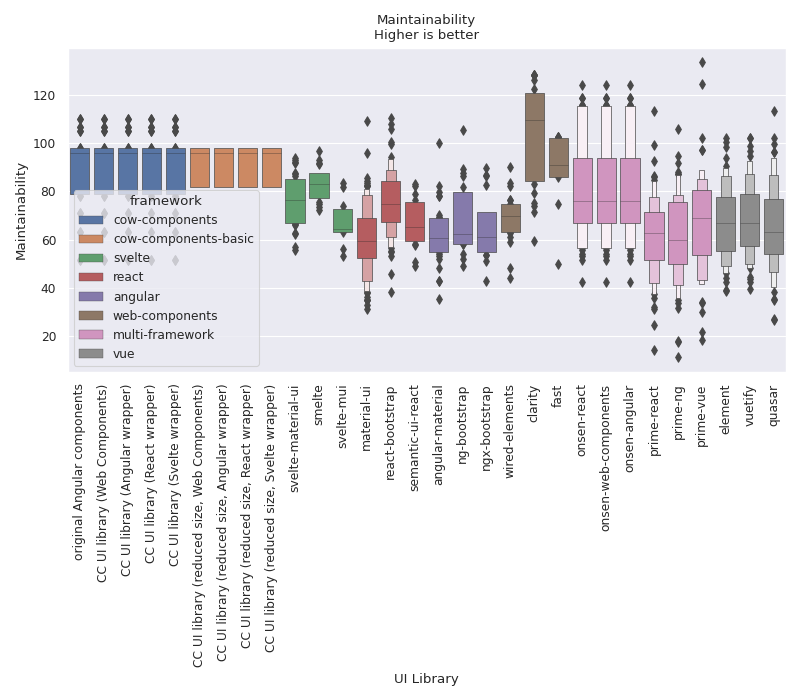
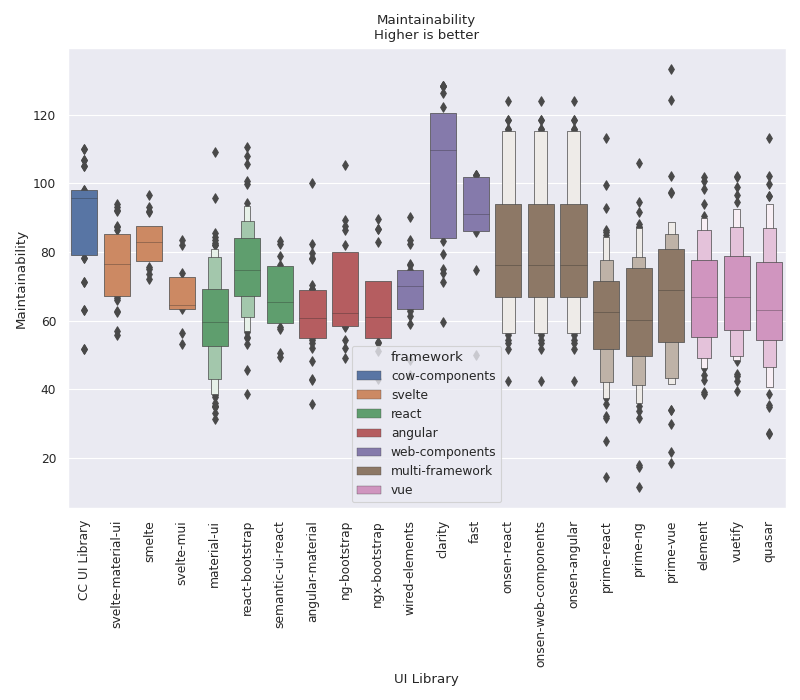
rename some bundles

diff --git a/paper/plots/data/get_data.py b/paper/plots/data/get_data.py
@@ -140,7 +140,9 @@ class FrameworkData:
             if dashboard_key:
                 add_bundle_to_lists(dashboard_key)
             add_bundle_to_lists(self.find_in_arr(data_obj.keys(), lambda key: "native" in key))
-            non_native_dashboard_keys = list(filter(lambda key: "dashboard" not in key and "native" not in key, data_obj.keys()))
+            non_native_dashboard_keys = list(
+                filter(lambda key: "dashboard" not in key and "native" not in key, data_obj.keys())
+            )
             for non_native_dashboard_key in non_native_dashboard_keys:
                 add_bundle_to_lists(non_native_dashboard_key)
 
@@ -185,8 +187,7 @@ class Data:
         return bundles
 
 
-BUNDLE_RENAME_MAP = {
-    "dashboard": "original Angular components",
+DEFAULT_MAP = {
     "cow-components-native": "CC UI library (Web Components)",
     "cow-components-angular": "CC UI library (Angular wrapper)",
     "cow-components-react": "CC UI library (React wrapper)",
@@ -197,15 +198,29 @@ BUNDLE_RENAME_MAP = {
     "cow-components-basic-svelte": "CC UI library (reduced size, Svelte wrapper)",
 }
 
+BUNDLE_RENAME_MAPS = {
+    "DEFAULT_MAP": {
+        **DEFAULT_MAP,
+        "dashboard": "original Angular components",
+    },
+    "DASHBOARD_MAP": {**DEFAULT_MAP, "dashboard": "30MHz dashboard"},
+    "WEB_COMPONENTS_MAP": {**DEFAULT_MAP, "dashboard": "CC UI Library"},
+}
 
-def rewrite_bundle(bundle: str) -> str:
-    if bundle in BUNDLE_RENAME_MAP:
-        return BUNDLE_RENAME_MAP[bundle]
+
+def rewrite_bundle(bundle: str, map_name: str = "DEFAULT_MAP") -> str:
+    if bundle in BUNDLE_RENAME_MAPS[map_name]:
+        return BUNDLE_RENAME_MAPS[map_name][bundle]
     return bundle
 
 
 def create_dataframe(
-    data: Data, get_data: Callable[[BundleData], Any], bundle_label: str, data_label: str, framework_label: str
+    data: Data,
+    get_data: Callable[[BundleData], Any],
+    bundle_label: str,
+    data_label: str,
+    framework_label: str,
+    rename_map: str,
 ) -> pd.DataFrame:
     obj = {bundle_label: [], data_label: [], framework_label: []}
     for bundle in data.iter_bundles():
@@ -214,7 +229,7 @@ def create_dataframe(
             continue
         data_list = data if type(data) == list else [data]
         for data_part in data_list:
-            obj[bundle_label].append(rewrite_bundle(bundle.bundle))
+            obj[bundle_label].append(rewrite_bundle(bundle.bundle, rename_map))
             obj[framework_label].append(bundle.framework)
             obj[data_label].append(data_part)
 
@@ -236,12 +251,13 @@ def create_plot(
     extra_dict: Dict[str, Any] = {},
     data_frame: Optional[Any] = None,
     dodge: bool = False,
+    rename_map: str = "DEFAULT_MAP",
 ) -> pd.DataFrame:
     sns = get_sns()
     df = (
         data_frame
         if data_frame is not None
-        else create_dataframe(data, get_data, bundle_label, data_label, framework_label)
+        else create_dataframe(data, get_data, bundle_label, data_label, framework_label, rename_map)
     )
     if figsize:
         plt.figure(figsize=figsize)

diff --git a/paper/plots/generators/page_load/first_paint.py b/paper/plots/generators/page_load/first_paint.py
@@ -13,11 +13,11 @@ def generate_first_paint_plot():
         if not bundle.page_load_time:
             continue
         for value in bundle.page_load_time.first_paint.values:
-            obj["UI Library"].append(rewrite_bundle(bundle.bundle))
+            obj["UI Library"].append(rewrite_bundle(bundle.bundle, "DASHBOARD_MAP"))
             obj["Metric"].append("First Paint")
             obj["Time (ms)"].append(value)
         for value in bundle.page_load_time.first_contentful_paint.values:
-            obj["UI Library"].append(rewrite_bundle(bundle.bundle))
+            obj["UI Library"].append(rewrite_bundle(bundle.bundle, "DASHBOARD_MAP"))
             obj["Metric"].append("First Contentful Paint")
             obj["Time (ms)"].append(value)
 

diff --git a/paper/plots/generators/quality/cyclomatic_complexity.py b/paper/plots/generators/quality/cyclomatic_complexity.py
@@ -10,11 +10,16 @@ def generate_cyclomatic_complexity_plot():
         "Cyclomatic complexity\nLower is better",
         "boxen",
         data,
-        lambda bundle_data: list(filter(lambda x: x != -1, bundle_data.cyclomatic_complexity.component_time_map.values())),
+        lambda bundle_data: list(
+            filter(lambda x: x != -1, bundle_data.cyclomatic_complexity.component_time_map.values())
+        )
+        if "cow" not in bundle_data.bundle
+        else None,
         "UI Library",
         "Cyclomatic Complexity",
         rotate_labels=True,
         extra_dict={"hue": "framework", "linewidth": 0.5},
         figsize=(8, 6),
+        rename_map="WEB_COMPONENTS_MAP",
     )
     write_plot(ax, "cyclomatic-complexity")

diff --git a/paper/plots/generators/quality/structural_complexity.py b/paper/plots/generators/quality/structural_complexity.py
@@ -10,11 +10,16 @@ def generate_structural_complexity_plot():
         "Structural complexity\nLower is better",
         "boxen",
         data,
-        lambda bundle_data: list(filter(lambda x: x != -1, bundle_data.structural_complexity.component_time_map.values())),
+        lambda bundle_data: list(
+            filter(lambda x: x != -1, bundle_data.structural_complexity.component_time_map.values())
+        )
+        if "cow" not in bundle_data.bundle
+        else None,
         "UI Library",
         "Structural Complexity",
         rotate_labels=True,
         extra_dict={"hue": "framework"},
         figsize=(8, 6),
+        rename_map="WEB_COMPONENTS_MAP"
     )
     write_plot(ax, "structural-complexity")

diff --git a/paper/plots/generators/quality/maintainability.py b/paper/plots/generators/quality/maintainability.py
@@ -10,11 +10,14 @@ def generate_maintainability_plot():
         "Maintainability\nHigher is better",
         "boxen",
         data,
-        lambda bundle_data: list(filter(lambda x: x != -1, bundle_data.maintainability.component_time_map.values())),
+        lambda bundle_data: list(filter(lambda x: x != -1, bundle_data.maintainability.component_time_map.values()))
+        if "cow" not in bundle_data.bundle
+        else None,
         "UI Library",
         "Maintainability",
         rotate_labels=True,
         extra_dict={"hue": "framework", "linewidth": 0.5},
         figsize=(8, 7),
+        rename_map="WEB_COMPONENTS_MAP"
     )
     write_plot(ax, "maintainability")

diff --git a/paper/plots/generators/quality/lines_of_code.py b/paper/plots/generators/quality/lines_of_code.py
@@ -10,11 +10,14 @@ def generate_lines_of_code_plot():
         "Lines of code",
         "scatter",
         data,
-        lambda bundle_data: list(bundle_data.lines_of_code.component_time_map.values()),
+        lambda bundle_data: list(bundle_data.lines_of_code.component_time_map.values())
+        if "cow" not in bundle_data.bundle
+        else None,
         "UI Library",
         "Lines of code",
         rotate_labels=True,
         extra_dict={"hue": "framework"},
         figsize=(7, 5),
+        rename_map="WEB_COMPONENTS_MAP"
     )
     write_plot(ax, "lines-of-code")
